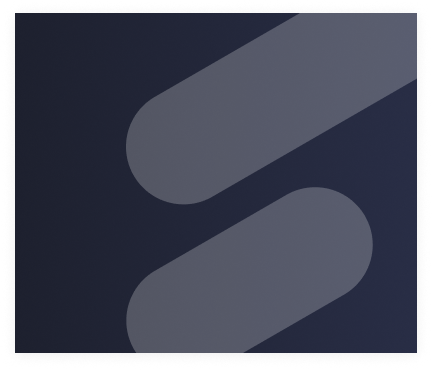
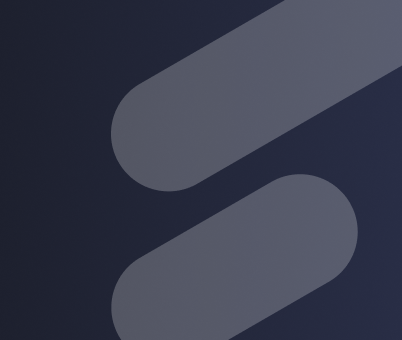
mobile-responsive

diff --git a/index.html b/index.html
@@ -206,7 +206,7 @@
         <div class="container-wrapper">
           <h2 class="section-title" data-translate="quickAccess.title">Quick Access Help</h2>
 
-          <div class="card-outer-layer p-2">
+          <div class="card-outer-layer p-2 desktop-view">
             <div class="cards-wrapper">
               <div class="row">
                 <div class="col-md-6 col-xl-6 col-lg-6 card-space">
@@ -255,13 +255,62 @@
               </div>
             </div>
           </div>
+          <div class="card-outer-layer p-2 mobile-view">
+            <div class="cards-wrapper">
+              <div class="row">
+                <div class="col-md-6 col-xl-6 col-lg-6 col-12 card-space">
+                  <div
+                    class="help-card service-card"
+                    onclick="handleCardClick('service-hotline')"
+                  >
+                    <div class="card-overlay">
+                        <a href="https://www.sportstech.de/rudergeraet" target="_blank" class="show-btn-exp">
+                            <div class="card-content">
+                                <h3 class="card-title mb-xl-2 mb-lg-2 pl-5" data-translate="quickAccess.hotline.title">
+                                  Talk to Us (Service Hotline)
+                                </h3>
+                                <p class="card-desc" data-translate="quickAccess.hotline.desc">
+                                  Need quick support or personal advice? Our support heroes are just a call away. Dial: 
+                                  (+49) 030 868 224 64
+                                </p>
+                              </div>
+                        </a>
+                    </div>
+                  </div>
+                </div>
+
+                <div
+                  class="col-md-6 col-xl-6 col-lg-6 col-12 pl-xl-3 pl-lg-3 pr-xl-3 pr-lg-3"
+                >
+                  <div
+                    class="help-card video-card mt-4"
+                    onclick="handleCardClick('video-guides')"
+                  >
+                  <a href="https://sportstech.link/support/" target="_blank">
+                    <div class="card-overlay">
+                        <div class="card-content">
+                          <h3 class="card-title mb-xl-2 mb-lg-2 pl-5" data-translate="quickAccess.video.title">
+                            Step-by-Step Video Guides
+                          </h3>
+                          <p class="card-desc" data-translate="quickAccess.video.desc">
+                            Master your product like a pro! Explore assembly videos, expert tips, and tutorials at your fingertips.
+                          </p>
+                        </div>
+                      </div>
+                  </a>
+                   
+                  </div>
+                </div>
+              </div>
+            </div>
+          </div>
         </div>
       </section>
     </div>
     <div class="container-fluid explore-section">
       <div class="container">
         <div class="support-section">
-          <h1 class="section-heading mb-xl-5 mt-xl-5" data-translate="explore.title">Explore Support Topics</h1>
+          <h1 class="section-heading mb-xl-5 mt-xl-5 mt-lg-5 mt-md-5 pt-5" data-translate="explore.title">Explore Support Topics</h1>
 
           <!-- First Row: Large Product Help + Small Orders -->
           <div class="first-row">
@@ -318,7 +367,7 @@
 
           <!-- Second Row: Small Payments + Large Warranty -->
           <div class="second-row mt-xl-5">
-            <div class="support-card payments-billing mt-xl-4 mt-lg-5 mt-md-5 mt-5">
+            <div class="support-card payments-billing mt-xl-4 mt-lg-5 mt-md-5 ">
               <div class="payment-img">
                 <img src="assets/payment.png" alt="" class="payment-image"/>
               </div>
@@ -339,16 +388,16 @@
               </p>
               <div class="product-icons mt-xl-5 mt-lg-5 mt-md-5 mt-5">
                 <div class="product-icon">
-                  <img src="assets/warranty1.png" alt="warranty1" />
+                  <img src="assets/warranty1.png" alt="warranty1" class="product-icon-image"/>
                 </div>
                 <div class="product-icon">
-                  <img src="assets/warranty2.png" alt="warranty2" />
+                  <img src="assets/warranty2.png" alt="warranty2" class="product-icon-image"/>
                 </div>
                 <div class="product-icon">
-                  <img src="assets/warranty3.png" alt="warranty3" />
+                  <img src="assets/warranty3.png" alt="warranty3" class="product-icon-image"/>
                 </div>
                 <div class="product-icon">
-                  <img src="assets/warranty4.png" alt="warranty4" />
+                  <img src="assets/warranty4.png" alt="warranty4" class="product-icon-image"/>
                 </div>
               </div>
               <button
@@ -363,10 +412,11 @@
           </div>
 
           <!-- Third Row: Large Brand Store + Small Sportstech -->
-          <div class="third-row mt-xl-5 mb-xl-5">
+          <div class="third-row mt-xl-5 mb-xl-5 pb-4">
             <div class="wide-card mt-xl-5">
               <div style="color: white; font-size: 48px">
-                <img src="assets/brandstore.png" alt="brandstore" class="berlin-image" />
+                <img src="assets/brandstore.png" alt="brandstore" class="berlin-image desktop-view" />
+                <img src="assets/images/brand-mobile.png" alt="brandstore" class="berlin-image mobile-view" />
               </div>
               <div class="wide-card-content">
                 <h3 class="wide-card-title" data-translate="explore.store.title">Brand Store Berlin</h3>
@@ -497,7 +547,7 @@
     <div class="container-fluid mobile-view">
       <div class="row">
         <div class="col-12">
-          <div class="section-left mt-xl-3 mt-lg-3 mt-md-5 mt-3">
+          <div class="section-left mt-xl-3 mt-lg-3 mt-md-5">
             <!-- Company Title -->
             <span class="brand-name mt-xl-5"><img src="assets/logo.png" alt="" class="footer-logo mt-xl-5 mt-lg-5 mt-md-5 mt-5 pt-3 mb-5"></span>
             <h2 class="company-title mb-xl-0 mb-lg-0 mb-5" data-translate="footer.company">

diff --git a/style.css b/style.css
@@ -2112,17 +2112,141 @@ body.support-page-bot-icons .bpFabWrapper {
   text-decoration: underline !important;
 }
 .social-footer {
-  background: url('assets/mobile-stay.png') no-repeat center / cover;
-  border-radius: 12px;
-  display: flex
-;
+  background: url('assets/mobile-stay.png') no-repeat center center;
+  background-size: cover; /* Stretch to cover left & right */
+  border-radius: unset !important;
+  display: flex;
   justify-content: center;
-  /* padding: 40px; */
   margin: 0 auto;
   flex-wrap: wrap;
   box-sizing: border-box;
+  width: 100%;        /* Full width */
   max-width: 100%;
+  padding: 40px 0 !important;
 }
+
+.social-footer-title {
+  font-size: 25px !important;
+}
+.social-footer-text{
+  font-size: 12px !important;
+}
+.social-footer-content{
+  padding: unset !important;
+  justify-content: center !important;
+}
+.social-icons{
+  flex: unset !important;
+  margin-top: 5%;
+}
+.social-footer{
+  padding: 40px 0px 40px 0px !important;
+}
+.dual-section{
+  background-image: url("assets/images/dual-mobile-bg.png") !important;
+  background-size: cover !important;
+  border-radius: unset !important;
+  margin: unset !important;
+}
+.dual-title{
+  font-size: 30px !important;
+  text-align: center !important;
+
+}
+.dual-card{
+  align-items: center !important;
+}
+.third-row {
+  grid-template-columns: unset !important;
+}
+ .berlin-image{
+  width: 100% !important;
+  background-size: cover !important;
+ }
+ .second-row {
+  grid-template-columns: unset !important;
+  display: flex !important;
+  flex-direction: column !important;
+ }
+ .explore-section {
+  padding: unset !important;
+ }
+ .wide-card-title {
+  font-size: 20px !important;
+ }
+ .wide-card-description1 {
+  font-size: 12px !important;
+ }
+ .wide-card {
+  height: 350px !important;
+ }
+
+.wide-card-description {
+  font-size: 12px !important;
+}
+.payment-image{
+  width: 100% !important;
+}
+.card-title-explore {
+  font-size: 20px !important;
+}  
+.card-description{
+  font-size: 12px !important;
+}
+.product-icons{
+  gap: 60px !important;
+}
+.product-icon{
+  width: 30px !important;
+  height: 30px !important;
+}
+.product-icon-image{
+  width: 70px !important;
+}
+.first-row{
+  grid-template-columns: unset !important;
+}
+.section-heading{
+  font-size: 35px !important;
+}
+.container-wrapper{
+  margin: unset !important;
+}
+.section-title{
+  font-size: 35px !important;
+}
+ /* Prevent zoom on hover */
+ .help-card:hover,
+ .help-card:hover::before {
+   transform: none !important;
+   box-shadow: none !important;
+ }
+
+ /* Keep description always visible */
+ .help-card .card-desc {
+   max-height: none !important;
+   opacity: 1 !important;
+   transform: none !important;
+   transition: none !important;
+ }
+
+ /* Remove hover-triggered description animation */
+ .help-card:hover .card-desc {
+   max-height: none !important;
+   opacity: 1 !important;
+   transform: none !important;
+ }
+ .help-card {
+  height: 235px !important;
+ }
+ .card-title{
+  font-size: 20px !important;
+  padding: 3%;
+ }
+ .card-desc{
+  font-size: 12px !important;
+  padding: 3%;
+ }
 }
 
  
